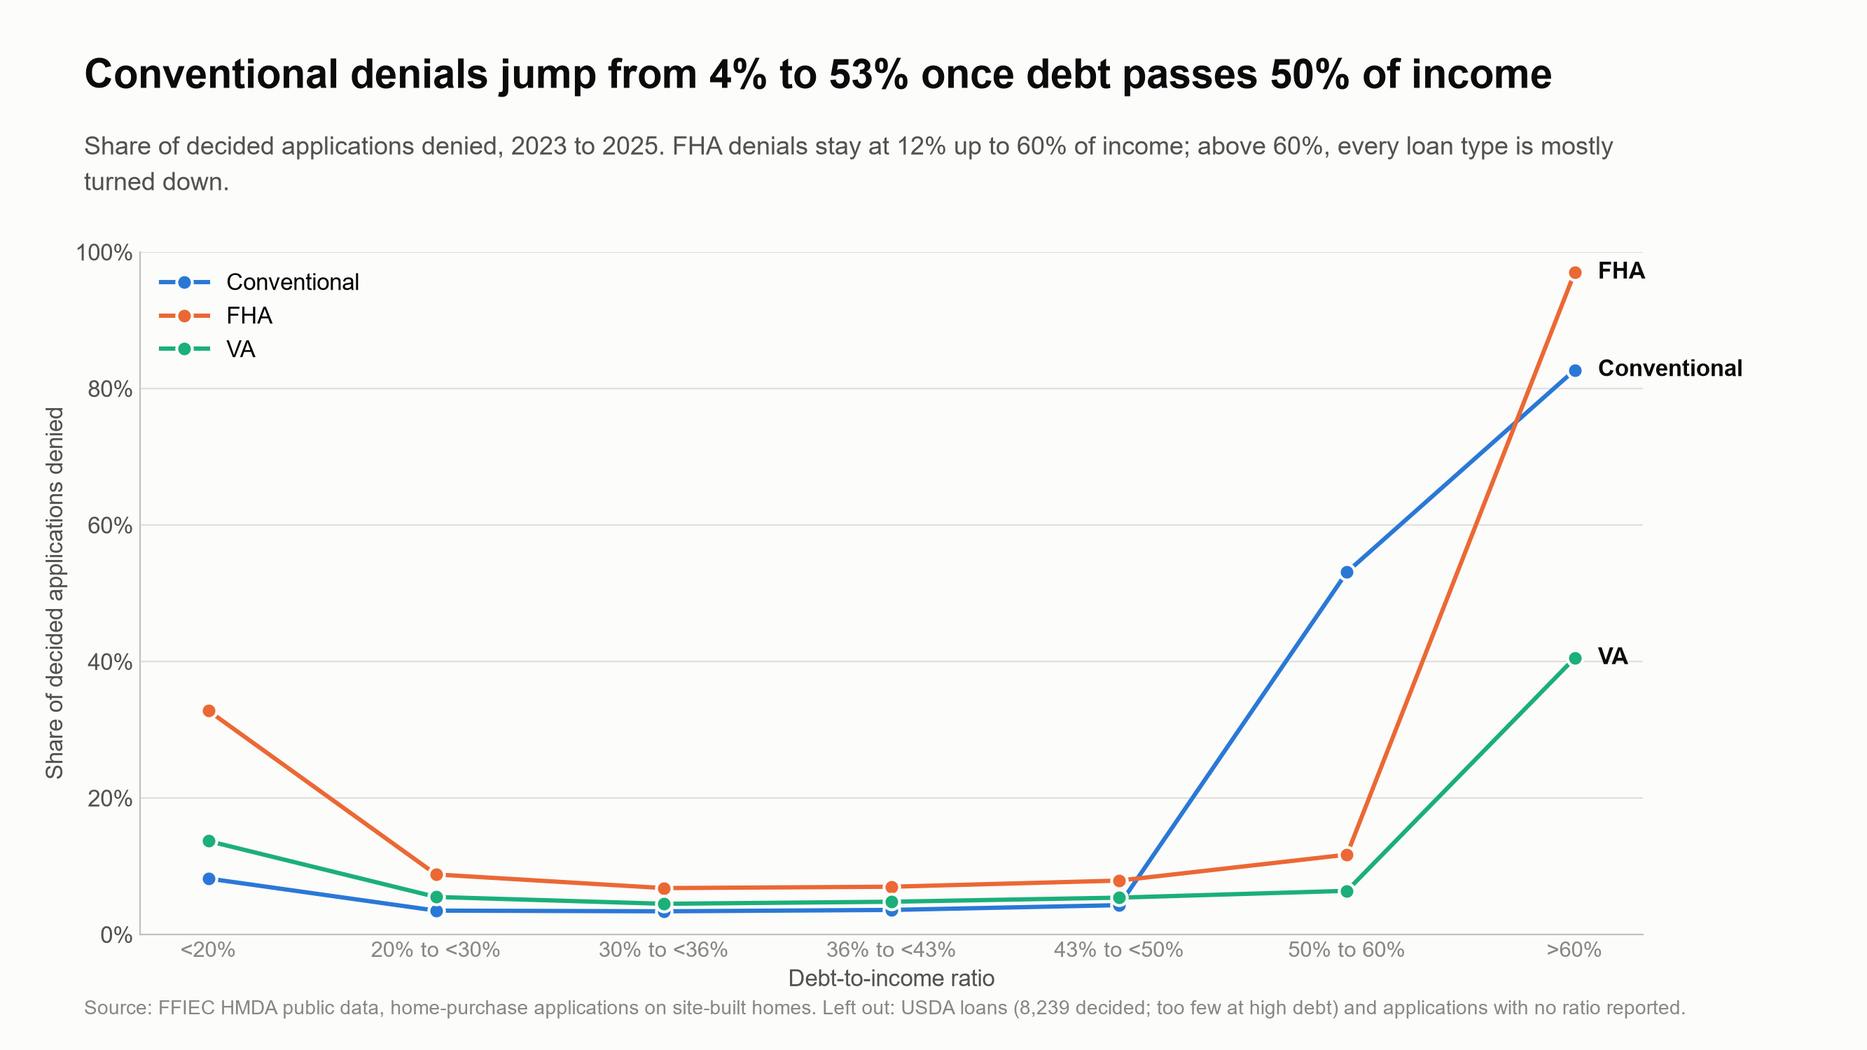
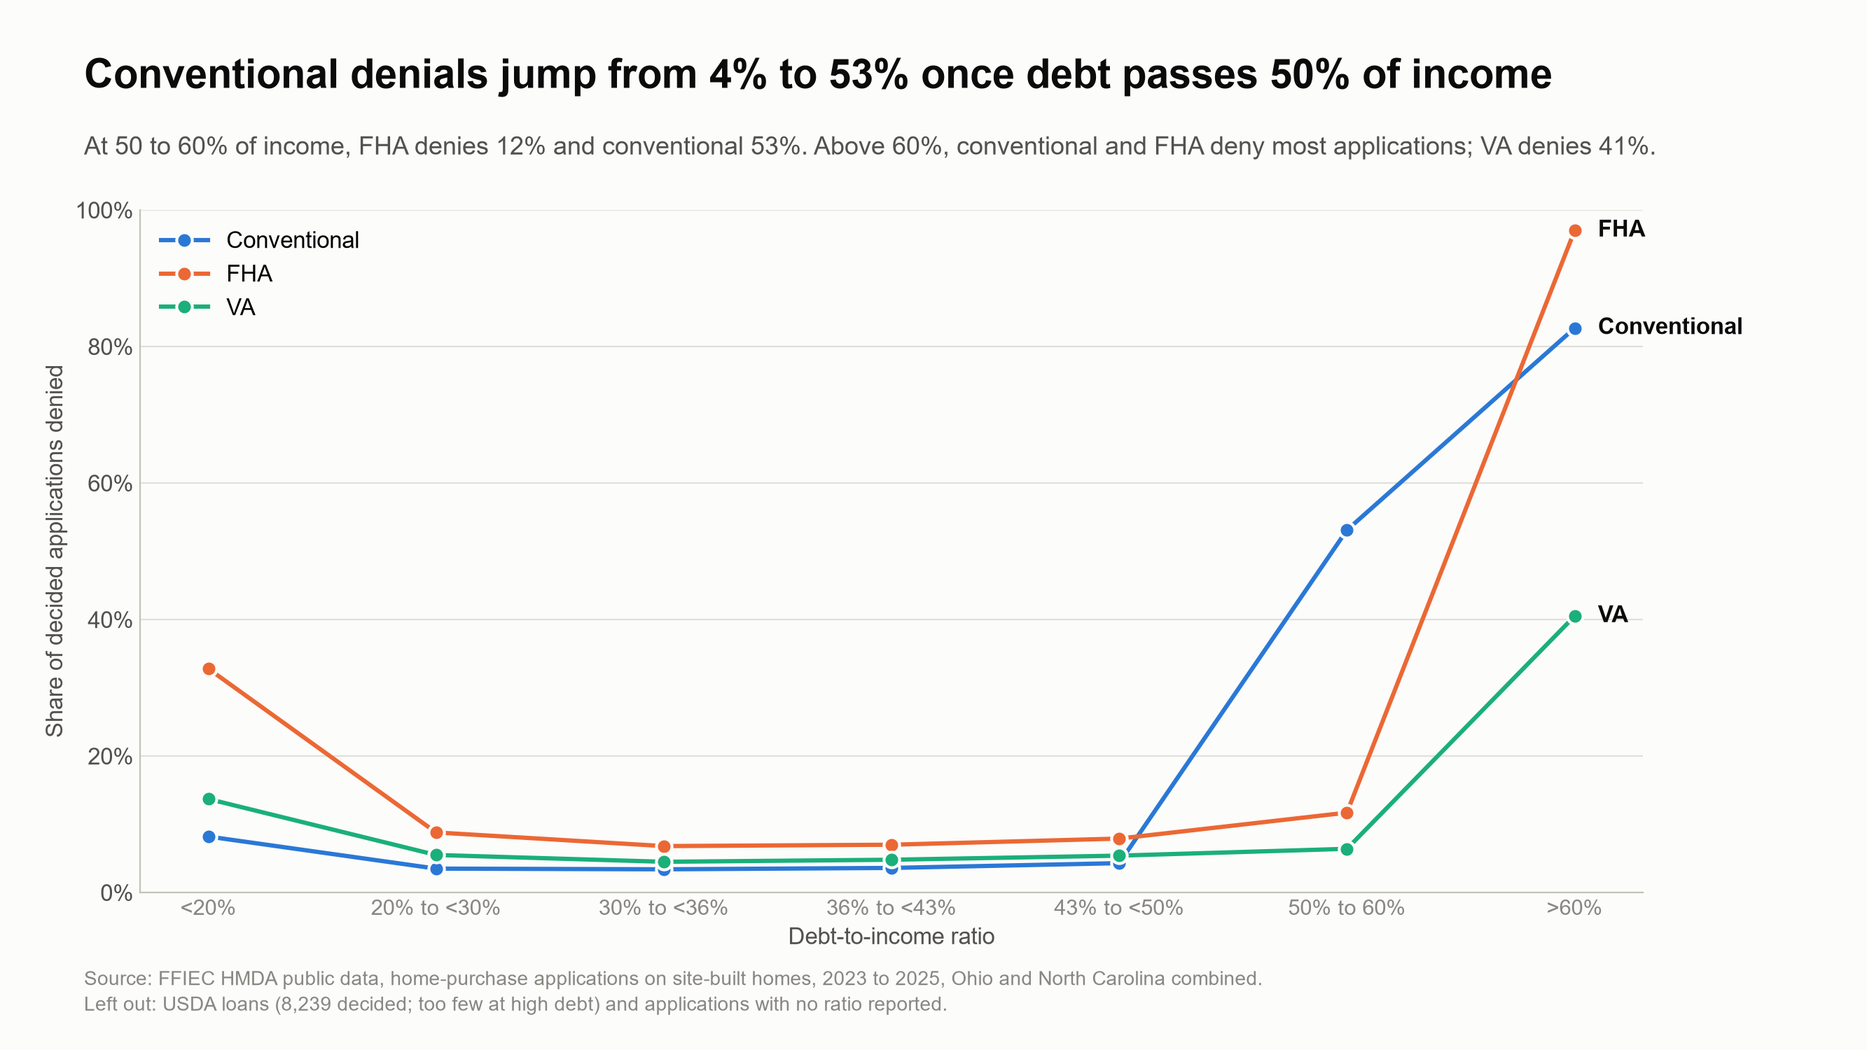
data-driven chart titles, county-only map title, q2 HHI line, flat q3/q4 colors

diff --git a/projects/P0/charts/q3_approval.py b/projects/P0/charts/q3_approval.py
@@ -31,6 +31,13 @@ df = df[df.loan_type_label != 'USDA']
 va = df[df.loan_type_label == 'VA'].set_index('state')
 va_ratio = va.apps['NC'] / va.apps['OH']                                # NC's VA applications / Ohio's
 va_gap = va.denial_rate_pct['OH'] - va.denial_rate_pct['NC']            # points lower in NC
+conv = df[df.loan_type_label == 'Conventional'].set_index('state')
+
+# The text says: Ohio denies conventional less often; NC has about twice Ohio's VA
+# applications and fewer VA denials; DTI leads every product. Stop if the data disagrees.
+assert conv.denial_rate_pct['OH'] < conv.denial_rate_pct['NC']
+assert round(va_ratio) == 2 and va_gap > 0
+assert (df.top_denial_reason == 'Debt-to-income ratio').all()
 
 
 # ---- styling ------------------------------------------------------------------
@@ -39,10 +46,8 @@ va_gap = va.denial_rate_pct['OH'] - va.denial_rate_pct['NC']            # points
 SURFACE, INK, INK_2, MUTED = '#fcfcfb', '#0b0b0b', '#52514e', '#898781'
 GRID, AXIS = '#e1e0d9', '#c3c2b7'
 # One colour per state (checked for colour-blind contrast). Ohio keeps the deck's blue.
-# The pale version of each colour is for the context rows, so the eye goes to VA first.
-STATES = [('OH', 'Ohio', '#1e5aa8', '#c8d9ef'), ('NC', 'North Carolina', '#eb6834', '#f7cdb9')]
+STATES = [('OH', 'Ohio', '#1e5aa8'), ('NC', 'North Carolina', '#eb6834')]
 PRODUCTS = ['Conventional', 'FHA', 'VA']    # top to bottom
-HIGHLIGHT = 'VA'
 
 plt.rcParams.update({
     # Liberation Sans has Arial's letter widths, so the layout holds where Arial is missing (Linux).
@@ -73,11 +78,12 @@ GAP = 0.2     # Ohio sits GAP above the product's centre line, North Carolina GA
 
 # ---- chart --------------------------------------------------------------------
 
-# Hand-written takeaway for the Ohio vs North Carolina decision. Numbers checked against
-# charts/data/q3_approval.csv; re-check them if the data changes.
-title = 'VA lending is twice as large in North Carolina, with fewer denials'
-subtitle = ('Conventional and FHA denial rates are close in both states; '
-            'debt-to-income is the leading denial reason for every product.')
+# Takeaway for the Ohio vs North Carolina decision; the numbers and the asserts above
+# come from charts/data/q3_approval.csv.
+title = (f"Conventional is {conv.product_share_pct['OH']:.0f}% of Ohio's demand, "
+         f"and Ohio denies it less often")
+subtitle = ("VA is North Carolina's one edge: twice Ohio's applications and fewer denials.\n"
+            "Debt-to-income is the leading denial reason for every product.")
 
 fig = plt.figure(figsize=(13.33, 7.5))
 fig.text(0.045, 0.945, title, size=21, weight='bold', color=INK, va='top')
@@ -95,22 +101,20 @@ panels = [
 y_centre = {product: -i for i, product in enumerate(PRODUCTS)}    # 0, -1, -2: Conventional on top
 
 for i, (column, heading, xmax, callout) in enumerate(panels):
-    ax = fig.add_axes([0.14 + i * 0.44, 0.11, 0.38, 0.6])
+    ax = fig.add_axes([0.14 + i * 0.44, 0.11, 0.38, 0.58])   # 0.58 tall: room for the legend under a two-line subtitle
 
-    for (state, _, color, pale), offset in zip(STATES, [GAP, -GAP]):
+    for (state, _, color), offset in zip(STATES, [GAP, -GAP]):
         rows = df[df.state == state]
         for row in rows.itertuples():
             y = y_centre[row.loan_type_label] + offset
             value = getattr(row, column)
-            is_va = row.loan_type_label == HIGHLIGHT
-            ax.barh(y, value, height=BAR, color=color if is_va else pale)
+            ax.barh(y, value, height=BAR, color=color)
             # Value just past the bar end; the offset is in points so the gap
             # looks the same on both panels' scales.
             ax.annotate(f'{value:.1f}%', xy=(value, y), xytext=(5, 0), textcoords='offset points',
-                        va='center', size=12, color=INK if is_va else MUTED,
-                        weight='bold' if is_va else 'normal')
+                        va='center', size=12, color=INK, weight='bold')
             # Callout after North Carolina's VA value: the headline difference.
-            if is_va and state == 'NC':
+            if row.loan_type_label == 'VA' and state == 'NC':
                 ax.annotate(f'← {callout}', xy=(value, y), xytext=(58, 0), textcoords='offset points',
                             va='center', size=12, color=INK)
 
@@ -121,13 +125,10 @@ for i, (column, heading, xmax, callout) in enumerate(panels):
     ax.grid(axis='x')
     ax.set_axisbelow(True)    # gridlines behind the bars
     # Product names only on the left panel; the right panel shares its rows.
-    ax.set_yticks(list(y_centre.values()), list(y_centre) if i == 0 else [])
-    for label in ax.get_yticklabels():
-        label.set_color(INK if label.get_text() == HIGHLIGHT else MUTED)
-        label.set_weight('bold' if label.get_text() == HIGHLIGHT else 'normal')
+    ax.set_yticks(list(y_centre.values()), list(y_centre) if i == 0 else [], weight='bold')
 
-fig.legend(handles=[Patch(color=color, label=name) for _, name, color, _ in STATES],
-           loc='upper left', bbox_to_anchor=(0.04, 0.835), ncol=2)
+fig.legend(handles=[Patch(color=color, label=name) for _, name, color in STATES],
+           loc='upper left', bbox_to_anchor=(0.04, 0.805), ncol=2)   # below the two-line subtitle
 
 fig.savefig(ROOT / 'charts' / 'q3_approval.png', dpi=200)
 

diff --git a/projects/P0/charts/q7_demand_map.py b/projects/P0/charts/q7_demand_map.py
@@ -46,8 +46,12 @@ BIN_LABELS = ['Under 500', '500–1k', '1k–2.5k', '2.5k–5k', '5k+']
 # Each state keeps its deck colour: a light-to-dark ramp through it, one step per class.
 STATES = [('39', 'Ohio', '#1e5aa8'), ('37', 'North Carolina', '#eb6834')]
 N_LABELS = 5   # name each state's five largest counties on the map
-# Also name these: counties in the recommended five-county start that aren't in the top five.
-EXTRA_LABELS = {'Ohio': ['Butler', 'Warren']}
+# The recommended five-county start: bold label and a dark outline. Keyed by state,
+# because North Carolina has a Franklin County too.
+RECOMMENDED = {'Ohio': ['Franklin', 'Hamilton', 'Montgomery', 'Butler', 'Warren']}
+OUTLINE = 1.6   # line width of the recommended counties' outline
+# Also name these, even if they aren't in the top five.
+EXTRA_LABELS = RECOMMENDED
 # Move a label by (x, y) points, with a thin leader line back to its county, when it would
 # collide with a neighbour or sit on a dark fill (text on the darkest class is hard to read).
 # Others are labelled in place.
@@ -87,11 +91,30 @@ print('counties with no data:', counties[VALUE].isna().sum(),
 counties[VALUE] = counties[VALUE].fillna(0)
 counties['bin'] = pd.cut(counties[VALUE], BINS, right=False, labels=False)
 
-# Hand-written takeaway. Numbers checked against charts/data/q7_demand_map.csv;
-# re-check them if the data changes.
-title = 'In both states, about a third of buyers are in five metro counties'
-subtitle = ("Ohio's five largest counties drew 38% of its 2025 applications, spread across five cities.\n"
-            "North Carolina's drew 34%, led by Wake (Raleigh) and Mecklenburg (Charlotte).")
+# ---- numbers for the text -----------------------------------------------------
+# From the query result itself, so they match charts/data/q7_demand_map.csv.
+oh = df[df.state_name == 'Ohio']
+nc = df[df.state_name == 'North Carolina']
+picked_rows = oh[oh.county_name.isin([f'{n} County' for n in RECOMMENDED['Ohio']])]
+assert len(picked_rows) == 5          # all five found in the data
+picked = picked_rows.apps_2025.sum()
+oh_total = oh.apps_2025.sum()
+
+
+def top5_share(state_rows):
+    """Share of a state's 2025 applications in its five largest counties, in %."""
+    return state_rows.nlargest(5, 'apps_2025').apps_2025.sum() / state_rows.apps_2025.sum() * 100
+
+
+# The five sit in three federal metro areas (msa_md in dim_geography, same in 2023-2025):
+# Franklin in Columbus (18140), Montgomery in Dayton-Kettering (19430), and Hamilton, Butler
+# and Warren in Cincinnati (17140). Franklin doesn't border the other four, so don't call them
+# neighbouring or a corridor.
+# Chart text names counties, not cities: the audience is Canadian and the data is by county.
+title = f"The five counties we recommend hold {picked / oh_total * 100:.0f}% of Ohio's buyers"
+subtitle = (f"The five we recommend drew {picked:,} of Ohio's {oh_total:,} applications in 2025.\n"
+            f"Ohio's five largest counties hold {top5_share(oh):.0f}% of its applications, "
+            f"North Carolina's {top5_share(nc):.0f}%.")
 
 fig = plt.figure(figsize=(13.33, 7.5))
 fig.text(0.045, 0.945, title, size=21, weight='bold', color=INK, va='top')
@@ -122,6 +145,9 @@ for group, (fips, state, base), b, w, h in zip(groups, STATES, bounds, widths, h
     group.plot(ax=ax, color=[colors[i] for i in group['bin']],
                edgecolor=SURFACE, linewidth=0.6)
     group.dissolve().boundary.plot(ax=ax, color=AXIS, linewidth=0.8)   # state outline
+    recommended = RECOMMENDED.get(state, [])
+    if recommended:   # only Ohio has any
+        group[group.NAME.isin(recommended)].boundary.plot(ax=ax, color=INK, linewidth=OUTLINE)
     ax.set_xlim(b[0], b[2])
     ax.set_ylim(b[1], b[3])
     ax.set_axis_off()
@@ -137,6 +163,7 @@ for group, (fips, state, base), b, w, h in zip(groups, STATES, bounds, widths, h
         ax.annotate(f"{row.NAME}\n{row[VALUE]:,.0f}", (point.x, point.y),
                     xytext=(dx, dy), textcoords='offset points', ha='center', va='center',
                     size=10, color=INK, linespacing=1.1, annotation_clip=False,
+                    weight='bold' if row.NAME in recommended else 'normal',
                     path_effects=[pe.withStroke(linewidth=4, foreground=SURFACE)],
                     arrowprops=dict(arrowstyle='-', color=INK_2, linewidth=0.8, shrinkA=8, shrinkB=0)
                     if (dx, dy) != (0, 0) else None)
@@ -153,6 +180,12 @@ for row, (state, colors) in enumerate(legend_colors):
     fig.legend(handles=[Patch(color=c, label=l) for c, l in zip(colors, BIN_LABELS)],
                loc='center left', bbox_to_anchor=(legend_x + 0.1, y), ncol=5,
                handlelength=1.2, columnspacing=1.0, labelcolor=INK_2, borderpad=0, borderaxespad=0)
+
+# Key for the dark outline, one row below the swatches.
+fig.legend(handles=[Patch(facecolor='none', edgecolor=INK, linewidth=OUTLINE,
+                          label='Bold outline: the five counties we recommend')],
+           loc='center left', bbox_to_anchor=(legend_x, LEGEND_TOP - 0.04 - 2 * 0.05),
+           handlelength=1.2, labelcolor=INK_2, borderpad=0, borderaxespad=0)
 
 fig.savefig(ROOT / 'charts' / 'q7_demand_map.png', dpi=200)
 

diff --git a/projects/P0/charts/q4_pricing.py b/projects/P0/charts/q4_pricing.py
@@ -1,7 +1,7 @@
 """Q4 Pricing: median rate spread per county, one row per state (a dot strip).
 
 Each dot is a county with 300+ conventional originations on site-built homes in 2025.
-No county labels, to keep it uncluttered: the five recommended Ohio counties are drawn darker.
+No county labels, to keep it uncluttered, and every county is drawn the same way.
 """
 import logging
 from pathlib import Path
@@ -29,16 +29,11 @@ df.to_csv(ROOT / 'charts' / 'data' / 'q4_pricing.csv', index=False)
 
 # ---- styling ------------------------------------------------------------------
 
-# Same palette and look as charts/q3_approval.py: each state's deck colour, and a pale
-# version for every other county, so the eye goes to the five recommended ones.
+# Same palette and look as charts/q3_approval.py: each state's deck colour.
 SURFACE, INK, INK_2, MUTED = '#fcfcfb', '#0b0b0b', '#52514e', '#898781'
 GRID, AXIS = '#e1e0d9', '#c3c2b7'
-STATES = [('Ohio', 'OH', '#1e5aa8', '#c8d9ef', 1),          # name, abbreviation, colour, pale, row
-          ('North Carolina', 'NC', '#eb6834', '#f7cdb9', 0)]
-
-# The five recommended counties, drawn in the full state colour.
-HIGHLIGHT = {('Ohio', f'{name} County') for name in
-             ['Franklin', 'Hamilton', 'Montgomery', 'Butler', 'Warren']}
+STATES = [('Ohio', 'OH', '#1e5aa8', 1),          # name, abbreviation, colour, row
+          ('North Carolina', 'NC', '#eb6834', 0)]
 
 BIN = 0.01      # counties within the same 0.01-point bin stack vertically
 STEP = 0.075    # vertical distance between stacked dots, in rows
@@ -81,8 +76,7 @@ above_nc = (df.loc[df.state == 'Ohio', 'median_rate_spread'] > nc_max).sum()
 title = "Ohio borrowers pay more over the benchmark rate than North Carolina's"
 subtitle = (f'Each dot is one county\'s median rate spread on 2025 conventional loans. '
             f'Ohio\'s median is {median["Ohio"]:.2f} points, North Carolina\'s {median["North Carolina"]:.2f}.\n'
-            f'All {above_nc} counties above North Carolina\'s highest are in Ohio. '
-            f'Dark dots: the five counties we recommend.')
+            f'All {above_nc} counties above North Carolina\'s highest are in Ohio.')
 
 
 # ---- chart --------------------------------------------------------------------
@@ -98,7 +92,7 @@ fig.text(0.045, 0.03, 'Source: FFIEC HMDA public data, conventional loans on sit
 
 ax = fig.add_axes([0.13, 0.17, 0.83, 0.56])
 
-for state, _, color, pale, row in STATES:
+for state, _, color, row in STATES:
     counties = df[df.state == state].sort_values('median_rate_spread')
     # Stack counties that land in the same bin, centred on the row, so no dot hides another.
     counties['bin'] = (counties.median_rate_spread / BIN).round()
@@ -106,10 +100,9 @@ for state, _, color, pale, row in STATES:
     counties['n'] = counties.groupby('bin').bin.transform('size')
     counties['y'] = row + (counties.k - (counties.n - 1) / 2) * STEP
 
-    for c in counties.itertuples():
-        dark = (state, c.county_name) in HIGHLIGHT
-        ax.scatter(c.median_rate_spread, c.y, s=90 if dark else 70, zorder=3,
-                   color=color if dark else pale, edgecolor=SURFACE, linewidth=1)
+    # Every county the same: solid state colour, one size. The thin edge keeps stacked dots apart.
+    ax.scatter(counties.median_rate_spread, counties.y, s=70, zorder=3,
+               color=color, edgecolor=SURFACE, linewidth=1)
 
     # The state's median over all its loans: a short dark bar across the row, labelled
     # on the side facing the gap between the rows.

diff --git a/projects/P0/charts/q3_denials_by_dti.py b/projects/P0/charts/q3_denials_by_dti.py
@@ -3,6 +3,7 @@
 Restored from the old charts/make_charts.py (chart 3), which the cleanup in bab5297 removed.
 """
 import logging
+import math
 from pathlib import Path
 from google.cloud import bigquery
 from hmda.config import load_config
@@ -64,22 +65,38 @@ plt.rcParams.update({
 rate = df.pivot(index='dti_band', columns='loan_type_label', values='denial_rate_pct')
 conv_before, conv_after = rate.loc['43%-<50%', 'Conventional'], rate.loc['50%-60%', 'Conventional']
 fha_at = rate.loc['50%-60%', 'FHA']
+over60 = rate.loc['>60%']
 usda = int(df.loc[df.loan_type_label == 'USDA', 'decided'].sum())
 
+# Not on the chart: how many decided FHA applications the "<20%" spike rests on.
+fha_low = df[(df.loan_type_label == 'FHA') & (df.dti_band == '<20%')].iloc[0]
+print(f'FHA <20% DTI: {fha_low.decided:,} decided, {fha_low.denial_rate_pct}% denied, '
+      f'top reason {fha_low.top_denial_reason} ({fha_low.top_reason_share_pct}% of denials)')
+
+# The subtitle says conventional and FHA deny most applications above 60% and VA doesn't.
+assert over60['Conventional'] > 50 and over60['FHA'] > 50 and over60['VA'] < 50
+
+def whole(pct):
+    """Round a percentage half up (40.5 -> 41). Python's :.0f rounds halves to even (40.5 -> 40)."""
+    return math.floor(pct + 0.5)
+
+
 # Title and subtitle are written from the numbers, so they stay true if the data changes.
-title = (f'Conventional denials jump from {conv_before:.0f}% to {conv_after:.0f}% '
+title = (f'Conventional denials jump from {whole(conv_before)}% to {whole(conv_after)}% '
          f'once debt passes 50% of income')
-subtitle = (f'Share of decided applications denied, 2023 to 2025. FHA denials stay at {fha_at:.0f}% '
-            f'up to 60% of income; above 60%, every loan type is mostly\nturned down.')
+subtitle = (f'At 50 to 60% of income, FHA denies {whole(fha_at)}% and conventional {whole(conv_after)}%. '
+            f'Above 60%, conventional and FHA deny most applications; VA denies {whole(over60["VA"])}%.')
 
 fig = plt.figure(figsize=(13.33, 7.5))
 fig.text(0.045, 0.945, title, size=21, weight='bold', color=INK, va='top')
 fig.text(0.045, 0.875, subtitle, size=13, color=INK_2, va='top', linespacing=1.4)
-fig.text(0.045, 0.03, 'Source: FFIEC HMDA public data, home-purchase applications on site-built homes. '
+fig.text(0.045, 0.03, 'Source: FFIEC HMDA public data, home-purchase applications on site-built homes, '
+         '2023 to 2025, Ohio and North Carolina combined.\n'
          f'Left out: USDA loans ({usda:,} decided; too few at high debt) and applications with '
-         'no ratio reported.', size=10, color=MUTED, va='bottom')
+         'no ratio reported.', size=10, color=MUTED, va='bottom', linespacing=1.4)
 
-ax = fig.add_axes([0.075, 0.11, 0.805, 0.65])
+# Bottom raised from 0.11 so the x-axis label clears the two-line source note.
+ax = fig.add_axes([0.075, 0.15, 0.805, 0.65])
 x = range(len(DTI_ORDER))
 for loan_type, color in LOAN_TYPES:
     y = rate.loc[DTI_ORDER, loan_type]

diff --git a/projects/P0/charts/q2_competition.py b/projects/P0/charts/q2_competition.py
@@ -88,18 +88,38 @@ def lender_label(name):
 
 # ---- chart --------------------------------------------------------------------
 
-# Hand-written takeaway for the Ohio vs North Carolina decision. Numbers checked against
-# charts/data/q2_competition.csv; re-check them if the data changes.
+# ---- numbers for the text (2025, from the query result) -----------------------
+latest = split[split.activity_year == 2025].set_index('state')
+
+# Top-10 share, rounded: the wording says "about X% in each state", so both must round alike.
+top10 = set(latest.top10_share.round())
+assert len(top10) == 1, top10
+top10 = top10.pop()
+
+# Smaller lenders outside the top ten, rounded down to the nearest 50 ("more than 650").
+others_floor = latest.other_lenders.min() // 50 * 50
+
+# HHI (sum of squared % shares). "About 200 in both states": both must round to 200.
+hhi = latest.hhi
+print('HHI 2025:', hhi.to_dict())
+hhi_rounded = set(hhi.round(-2))
+assert hhi_rounded == {200}, hhi_rounded
+hhi_rounded = hhi_rounded.pop()
+# A threshold from the 2023 US Merger Guidelines, not from the data.
+HIGHLY_CONCENTRATED = 1800
+
 title = 'Lender concentration is low and comparable in both states'
-subtitle = ('The ten largest lenders hold about 36% of applications in each state; '
-            'more than 650 smaller lenders hold the remainder.')
+subtitle = (f'The ten largest lenders hold about {top10:.0f}% of applications in each state; '
+            f'more than {others_floor:,} smaller lenders hold the remainder.\n'
+            f'Market concentration (HHI) is about {hhi_rounded:,.0f} in both states; '
+            f'US merger guidelines call a market highly concentrated above {HIGHLY_CONCENTRATED:,}.')
 
 fig = plt.figure(figsize=(13.33, 7.5))
 fig.text(0.045, 0.945, title, size=21, weight='bold', color=INK, va='top')
 fig.text(0.045, 0.875, subtitle, size=13, color=INK_2, va='top', linespacing=1.4)
 fig.text(0.045, 0.03, 'Source: FFIEC HMDA public data, home-purchase applications on site-built homes. '
          'Segment labels are rounded, so a bar may sum to 99-101%.', size=10, color=MUTED, va='bottom')
-ax = fig.add_axes([0.1, 0.11, 0.87, 0.64])
+ax = fig.add_axes([0.1, 0.11, 0.87, 0.605])   # 0.605 tall: room for the legend under a two-line subtitle
 
 # Each state gets a header line, then one bar per year (2023 on top).
 # y counts down from the top so the chart reads in the same order as the code.
@@ -141,7 +161,7 @@ ax.grid(axis='x')
 ax.set_axisbelow(True)    # gridlines behind the bars
 
 fig.legend(handles=[Patch(color=color, label=label) for _, label, color, _ in SEGMENTS],
-           loc='upper left', bbox_to_anchor=(0.04, 0.835), ncol=3)
+           loc='upper left', bbox_to_anchor=(0.04, 0.80), ncol=3)   # below the two-line subtitle
 
 fig.savefig(ROOT / 'charts' / 'q2_competition.png', dpi=200)
 

diff --git a/projects/P0/charts/q1_demand.py b/projects/P0/charts/q1_demand.py
@@ -65,11 +65,23 @@ df.to_csv(ROOT / 'charts' / 'data' / 'q1_demand.csv', index=False)
 
 top = df[df.rank_in_state <= 10]
 
-# Hand-written takeaway for the Ohio vs North Carolina decision. Numbers checked against
-# charts/data/q1_demand.csv; re-check them if the data changes.
-title = "Ohio's largest counties are growing; North Carolina's two biggest are shrinking"
-subtitle = ("Combined, Ohio's ten largest counties grew 3.0% from 2023 to 2025, and 7 of the 10 grew.\n"
-            "North Carolina's ten fell 3.8%, led by Wake (−12.1%) and Mecklenburg (−6.8%).")
+# ---- numbers for the text -----------------------------------------------------
+# Combined growth of each state's ten largest counties, 2023 to 2025 (total vs total,
+# not an average of the county growth rates).
+totals = top.groupby('state_name')[['apps_2023', 'apps_2025']].sum()
+growth = (totals.apps_2025 / totals.apps_2023 - 1) * 100
+oh_grew = (top[top.state_name == 'Ohio'].growth_pct > 0).sum()      # how many of Ohio's 10 grew
+nc_big = top[top.state_name == 'North Carolina'].nsmallest(2, 'rank_in_state')   # NC's two largest
+(big1, pct1), (big2, pct2) = zip(nc_big.county_name.str.removesuffix(' County'), nc_big.growth_pct)
+
+# The wording says Ohio grew and North Carolina fell, led by its two biggest; stop if the data disagrees.
+assert growth['Ohio'] > 0 > growth['North Carolina'] and pct1 < 0 and pct2 < 0
+
+# Takeaway for the Ohio vs North Carolina decision; every number comes from the data above.
+title = (f"Ohio's ten largest counties grew {growth['Ohio']:.1f}% since 2023; "
+         f"North Carolina's fell {-growth['North Carolina']:.1f}%")
+subtitle = (f"{oh_grew} of Ohio's 10 grew. North Carolina's two biggest, {big1} ({signed(pct1)}%) and "
+            f"{big2} ({signed(pct2)}%), led the decline.")
 
 fig = plt.figure(figsize=(13.33, 7.5))
 fig.text(0.045, 0.945, title, size=21, weight='bold', color=INK, va='top')
